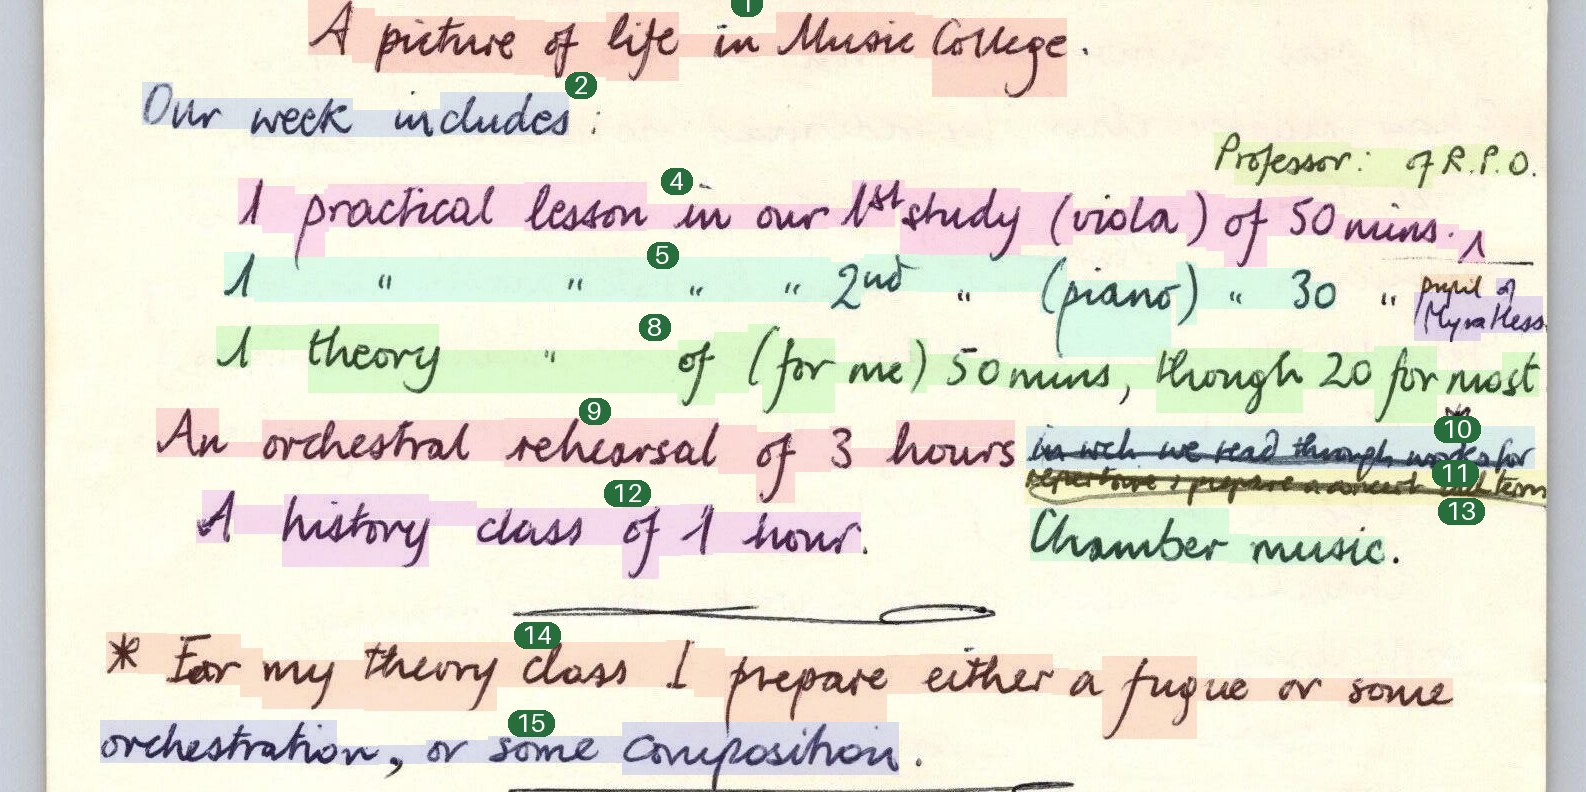
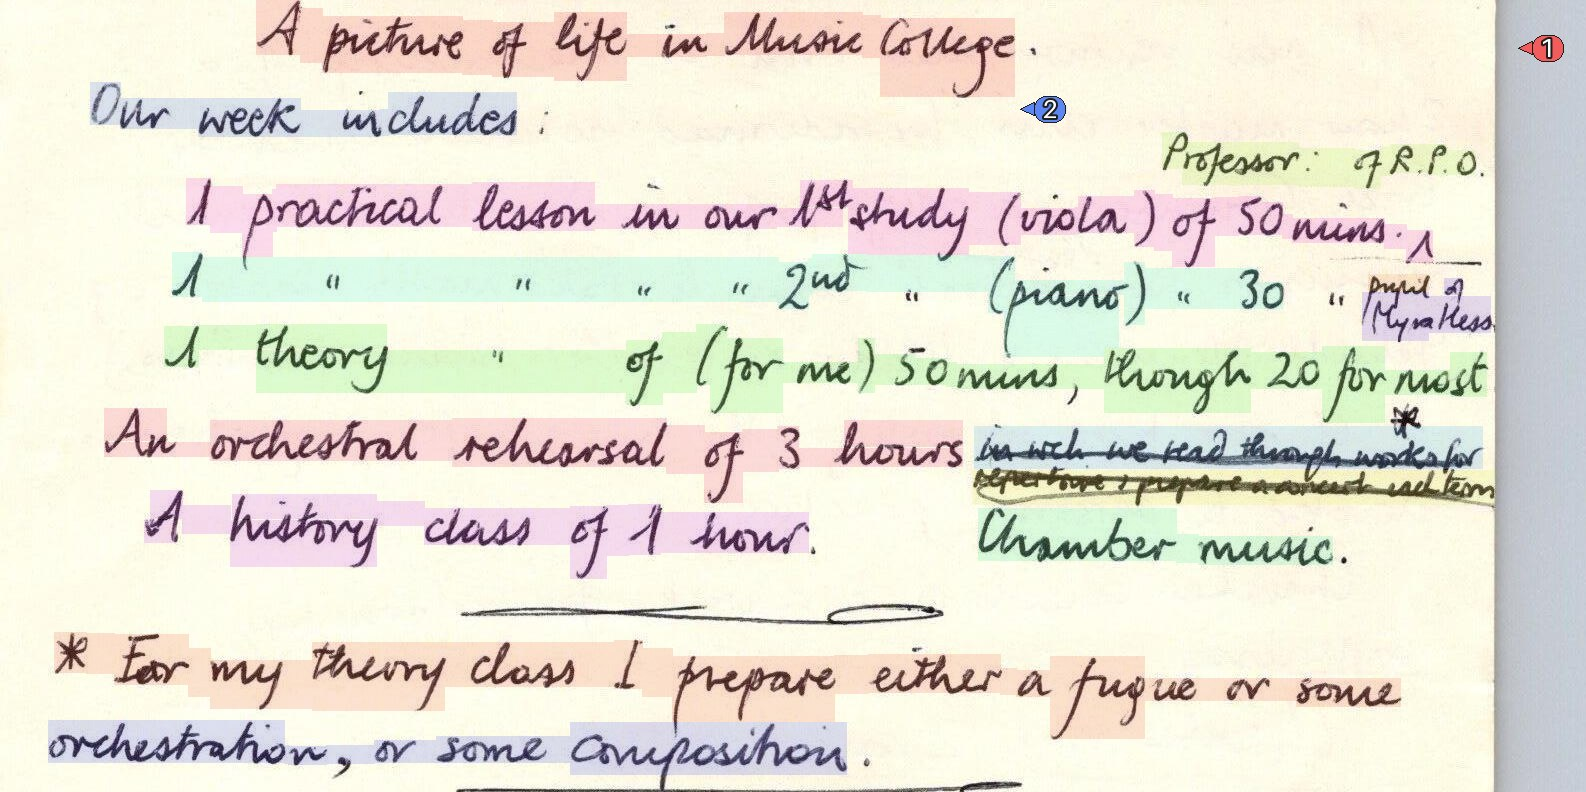
fix: the indicator moves to the right margin, in the row's own colour, with a pointer — and an empty transcript is an unread row, not a refusal
The user's three suggestions, all measured:

- the pill sits in the RIGHT margin (the writing runs to x2006 of a 2544px
  page), centred on its row's own line — "all the numbers seem to be a bit
  high" was my anchoring them above the band's top, and row 7 was worst because
  a sliver row's pill walked sideways to dodge its neighbour's.
- the pill is the ROW'S OWN HUE at full strength (the band is the same colour
  washed out), so a number pairs with its line by colour as well as position.
- it carries a pointer back at its row.

And the check I should have run from the start: pills over another row's ink.
It was 10 of 41 — row 6's lay over row 7 (the user's "really bad"), and the
tail stack's covered each other, which is exactly where the reader repeated
lines. Each pill is now placed clear of every line its own height spans: 0 of
41 cover any ink.

Contract: an EMPTY transcript is the model saying it cannot read that row. It
is recorded as unread — no text, nothing unconfirmed treated as the document's
words, the reviewer shown the row — where a row ABSENT from the answer is still
a refusal (a partial read pretending to be whole). A long line returned twice
is still refused: that is one row read twice.

State of the reading on page-01: every row covered, one line doubled in the
top band (nested stacks), three rows unread (15, 23, 37).

diff --git a/document/numbered_rows.py b/document/numbered_rows.py
@@ -19,14 +19,19 @@ from __future__ import annotations
 
 from PIL import Image, ImageDraw
 
+from tools.render import RenderStyle
 from tools.row import Row
 
 ROW_NUM_SIZE = 26  # px: the pill's number, the review surface's own type size
+PILL_POINTER = 14  # px: how far the pill's pointer reaches back toward its row
 PILL_RADIUS = 12  # px: the pill's corner (`.rv-rownum`'s 10px at page scale)
 PILL_PAD_X = 8  # px: air either side of the number
 PILL_PAD_Y = 4  # px: air above and below it
 PILL_INSET = 6  # px: how far the pill's right edge sits left of the band
-PILL_LIFT = 10  # px: how far its top sits above the band's top edge
+PILL_LIFT = 0  # px: the pill is centred on its row's own line, not lifted above
+# it. Lifted, every number reads as belonging to the line above — "all the
+# numbers seem to be a bit high" (user, on the sheet) — and a row whose band
+# starts high is lifted furthest, which is how row 7's number came adrift.
 PILL_MIN_WIDTH = 30  # px: a one-digit pill is still a pill
 PILL_STEP = 6  # px: the gap between two pills that had to be stepped apart
 # Bands are cut SHORT on purpose. The vision API downsamples an image by its
@@ -90,8 +95,8 @@ class NumberedRows:
         ]
         ink_left = max(0, int(min(xs) if xs else 0) - INK_MARGIN)
         ink_right = min(page.width, int(max(xs) if xs else page.width) + INK_MARGIN)
-        number_left, _number_right = cls.numbers_extent(ordered)
-        ink_left = max(0, int(min(float(ink_left), float(number_left))) - INK_MARGIN)
+        _number_left, number_right = cls.numbers_extent(ordered)
+        ink_right = min(page.width, int(max(float(ink_right), float(number_right))) + INK_MARGIN)
         out: list[NumberedRows] = []
         for index in range(strips):
             band_top = int(bounds[index]) - (BAND_OVERLAP if index else 0)
@@ -123,7 +128,7 @@ class NumberedRows:
 
     @classmethod
     def numbers_extent(cls, rows: list[Row], *, offset_y: float = 0) -> tuple[float, float]:
-        """The left and right edges the numbers reach, page px.
+        """The left and right edges the numbers reach, page px (right margin).
 
         A number that shares its corner with another's steps outward, so the
         numbers can reach further left than the writing does. A caller that
@@ -151,13 +156,28 @@ class NumberedRows:
             measured = draw.textbbox((0, 0), text, font=font)
             width = max(PILL_MIN_WIDTH, (measured[2] - measured[0]) + 2 * PILL_PAD_X)
             height = (measured[3] - measured[1]) + 2 * PILL_PAD_Y
-            top = row.band.y0 - PILL_LIFT
-            right = row.band.x0 - PILL_INSET
-            left = right - width
-            while any(left < r and r0 < right + width and top < b and t0 < top + height for r0, t0, r, b in boxes):
-                right -= width + PILL_STEP  # outward, into the margin
-                left = right - width
-            boxes.append((left, top, right, top + height))
+            # centred on the row's own line and in the RIGHT margin, which is
+            # empty (the writing runs to x2006 of a 2544px page) — the left
+            # margin is where the crowded rows pushed each other's numbers
+            # around. The pill is the row's own hue and points back at it, so
+            # the pairing never depends on the number's exact position.
+            centre = (row.band.y0 + row.band.y1) / 2
+            top = centre - height / 2 - PILL_LIFT
+            bottom = top + height
+            # clear of EVERY line the pill's own height spans, not just its own:
+            # rows sit ~20px apart and a pill is ~34px tall, so ten of page-01's
+            # pills lay over a neighbour's writing (row 6's covered row 7, and
+            # the tail stack's covered each other) — ink under a label is ink
+            # the reader cannot see, and the repeats followed exactly that.
+            own = max(word.x1 for word in row.word_boxes) if row.word_boxes else row.band.x1
+            covered = [
+                word.rect.x1
+                for other in rows
+                for word in other.word_boxes
+                if word.rect.y0 < bottom and top < word.rect.y1
+            ]
+            left = max([own, *covered]) + PILL_INSET
+            boxes.append((left, top, left + width, bottom))
         return boxes
 
     @classmethod
@@ -167,16 +187,33 @@ class NumberedRows:
         numbers = {row.id: row.number for row in rows}
         draw = ImageDraw.Draw(canvas)
         font = _font()
-        for row, (left, top, right, bottom) in zip(rows, cls._pill_boxes(rows), strict=False):
+        style = RenderStyle()
+        for index, (row, (left, top, right, bottom)) in enumerate(zip(rows, cls._pill_boxes(rows), strict=False)):
             top -= offset_y
             bottom -= offset_y
             measured = draw.textbbox((0, 0), str(row.number), font=font)
-            draw.rounded_rectangle((left, top, right, bottom), radius=PILL_RADIUS, fill=(40, 110, 60))
+            # the row's OWN hue at full strength (the band is the same colour
+            # washed out): the pill and its band are one colour, so a number
+            # can be matched to its line by colour alone
+            red, green, blue, _alpha = style.colour(index)
+            fill = (red, green, blue)
+            draw.polygon(
+                [
+                    (left - PILL_POINTER, (top + bottom) / 2),
+                    (left, top + (bottom - top) / 4),
+                    (left, bottom - (bottom - top) / 4),
+                ],
+                fill=fill,
+                outline=(30, 30, 30),
+            )
+            draw.rounded_rectangle((left, top, right, bottom), radius=PILL_RADIUS, fill=fill, outline=(30, 30, 30))
             draw.text(
                 (left + PILL_PAD_X - measured[0], top + PILL_PAD_Y - measured[1]),
                 str(row.number),
                 fill=(255, 255, 255),
                 font=font,
+                stroke_width=2,
+                stroke_fill=(30, 30, 30),
             )
         return cls(canvas, numbers)
 

diff --git a/document/transcript.py b/document/transcript.py
@@ -41,7 +41,7 @@ class RowReading:
     """
 
     rows: tuple[int, ...]
-    text: str
+    text: str  # "" when the model could not read the row: unread, never text
     kind: str
     injection_after: int | None
 
@@ -95,7 +95,7 @@ class Transcript:
         its tail stack repeated one line across 37, 39 and 41. Two rows may
         share a short word; a whole line twice means one row was read twice,
         so the answer is refused rather than half-believed."""
-        long_enough = [reading for reading in readings if len(reading.text.split()) >= 4]
+        long_enough = [reading for reading in readings if len(reading.text.split()) >= 4]  # unread rows excluded
         seen: dict[str, int] = {}
         for index, reading in enumerate(long_enough):
             key = " ".join(reading.text.lower().split())
@@ -168,8 +168,13 @@ def _reading(segment: Any, *, index: int, rows: int) -> RowReading:
     if kind not in KINDS:
         raise ReadingError(f"reading {index}: unknown type {kind!r} (not {KINDS})")
     text = segment.get("transcript")
-    if not isinstance(text, str) or not text.strip():
+    if not isinstance(text, str):
         raise ReadingError(f"reading {index} has no transcript: {segment!r}")
+    # an EMPTY transcript is the model saying it cannot read that row. That is
+    # a fact about the page, not a malformed answer: it is recorded as unread
+    # (no text, and nothing unconfirmed is treated as the document's words) and
+    # the reviewer is shown the row. A row ABSENT from the answer is still a
+    # refusal — that is a partial read pretending to be a whole one.
     return RowReading(
         rows=numbers,
         text=text.strip(),

diff --git a/tests/test_transcript.py b/tests/test_transcript.py
@@ -84,13 +84,29 @@ def test_an_injection_needs_its_target_and_writing_does_not_want_one() -> None:
 
 def test_only_writing_kinds_are_read() -> None:
     """A rule is a detector artefact, not writing: its kind is not in the
-    vocabulary, and a segment with no transcript is refused."""
+    vocabulary, and a segment with no transcript field at all is refused."""
     with pytest.raises(ReadingError, match="unknown type 'rule'"):
         Transcript.from_answer(_answer({"rows": [1], "type": "rule", "transcript": "—"}), rows=1)
     with pytest.raises(ReadingError, match="has no transcript"):
         Transcript.from_answer(_answer({"rows": [1], "type": "body"}), rows=1)
     with pytest.raises(ReadingError, match="names a row outside 1..1"):
         Transcript.from_answer(_answer({"rows": [4], "type": "body", "transcript": "gone"}), rows=1)
+
+
+def test_an_empty_transcript_is_an_unread_row_not_a_refusal() -> None:
+    """A row the model looked at and could not read comes back with an empty
+    transcript. The page is still read — the row is recorded as unread, so
+    nothing unconfirmed becomes the document's words and the reviewer is shown
+    it — where a row ABSENT from the answer is a refusal."""
+    transcript = Transcript.from_answer(
+        _answer(
+            {"rows": [1], "type": "body", "transcript": "read this one"},
+            {"rows": [2], "type": "body", "transcript": ""},
+        ),
+        rows=2,
+    )
+    assert transcript.text_of(1) == "read this one"
+    assert transcript.text_of(2) == "", "an unread row carries no text"
 
 
 def test_a_fenced_answer_is_read() -> None:
